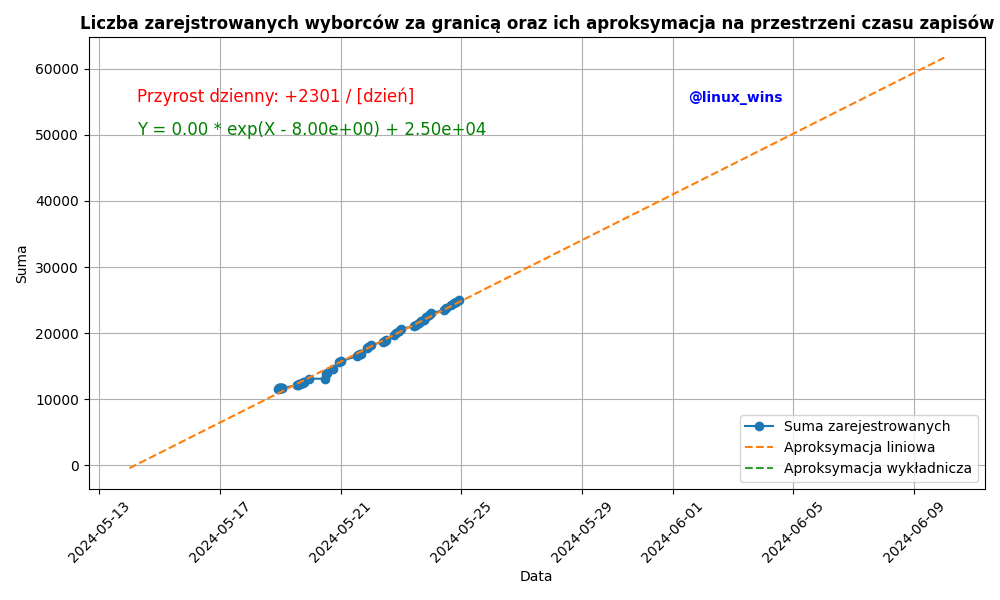
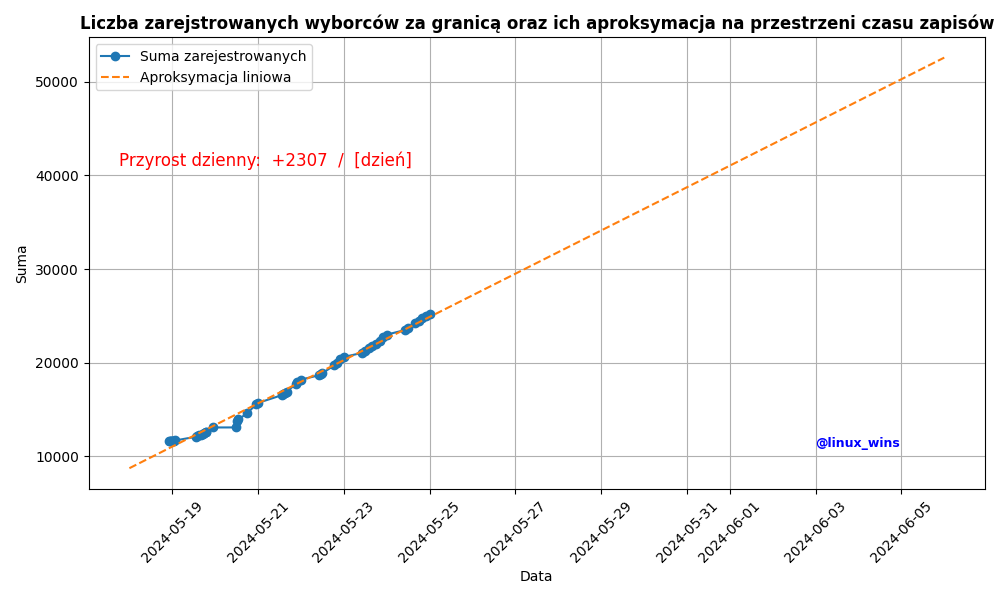
updated

diff --git a/plot.py b/plot.py
@@ -2,7 +2,6 @@ import matplotlib.pyplot as plt
 import pandas as pd
 from datetime import datetime
 import numpy as np
-from scipy.optimize import curve_fit
 
 # Mapping Polish month names to numbers
 month_map = {
@@ -26,10 +25,6 @@ def parse_date(date_str):
     date_parts[2] = month_map[date_parts[2]]
     formatted_date_str = ' '.join(date_parts[1:5]) + ' ' + date_parts[5]
     return datetime.strptime(formatted_date_str, '%d %m %H:%M:%S %Y CEST')
-
-# Exponential function for fitting
-def exp_func(x, a, b, c):
-    return a * np.exp( x/86400. - b) + c
 
 
 # Read the file content
@@ -55,8 +50,8 @@ poly = np.poly1d(coefficients)
 df['Trend'] = poly(df['Date_num'])
 
 # Define the extended range for the trend line
-start_date = datetime(2024, 5, 14)
-end_date = datetime(2024, 5, 27)
+start_date = datetime(2024, 5, 18)
+end_date = datetime(2024, 6, 6)
 extended_dates = pd.date_range(start=start_date, end=end_date, freq='D')
 
 # Convert extended dates to numerical values
@@ -65,33 +60,19 @@ extended_dates_num = extended_dates.map(datetime.timestamp)
 # Calculate the trend values for the extended range
 extended_trend = poly(extended_dates_num)
 
-# Perform exponential fitting
-popt, pcov = curve_fit(exp_func, df['Date_num'], df['Suma'], p0=(0.001, 19868., 10000.), bounds=([1e-5, 10000., 1000.], [1., 20000., 35000.]))
-
-print(datetime(2024, 5, 25).timestamp()-datetime(2024, 5, 17).timestamp())
-print(datetime(2024, 5, 25).timestamp()/86400.)
-
-# Calculate exponential trend values for the extended range
-extended_exp_trend = exp_func(extended_dates_num, *popt)
-
 # Plotting the data
 plt.figure(figsize=(10, 6))
 plt.plot(df['Date'], df['Suma'], marker='o', label='Suma zarejestrowanych')
 plt.plot(extended_dates, extended_trend, label='Aproksymacja liniowa', linestyle='--')
-plt.plot(extended_dates, extended_exp_trend, label='Aproksymacja wykładnicza', linestyle='--')
 
 # Display the linear regression equation on the plot
 ## Extract the slope and intercept
 slope, intercept = coefficients
 slope *= 24*3600
-plt.text(datetime(2024, 5, 14, 6), 55000, f'Przyrost dzienny: +{slope:.0f} / [dzień]', fontsize=12, color='red')
-
-# Display the exponential regression equation on the plot
-exp_equation_text = f'Y = {popt[0]:.2f} * exp(X - {popt[1]:.2e}) + {popt[2]:.2e}'
-plt.text(datetime(2024, 5, 14, 6), 50000, exp_equation_text, fontsize=12, color='green')
+plt.text(datetime(2024, 5, 17, 18), 41000, f'Przyrost dzienny:  +{slope:.0f}  /  [dzień]', fontsize=12, color='red')
 
 # Add the logo text "@ala"
-plt.text(datetime(2024, 6, 1, 12), 55000, '@linux_wins', fontsize=10, color='blue', weight='bold')
+plt.text(datetime(2024, 6, 2, 23, 40), 11000, '@linux_wins', fontsize=9, color='blue', weight='bold')
 
 plt.xlabel('Data')
 plt.ylabel('Suma')
